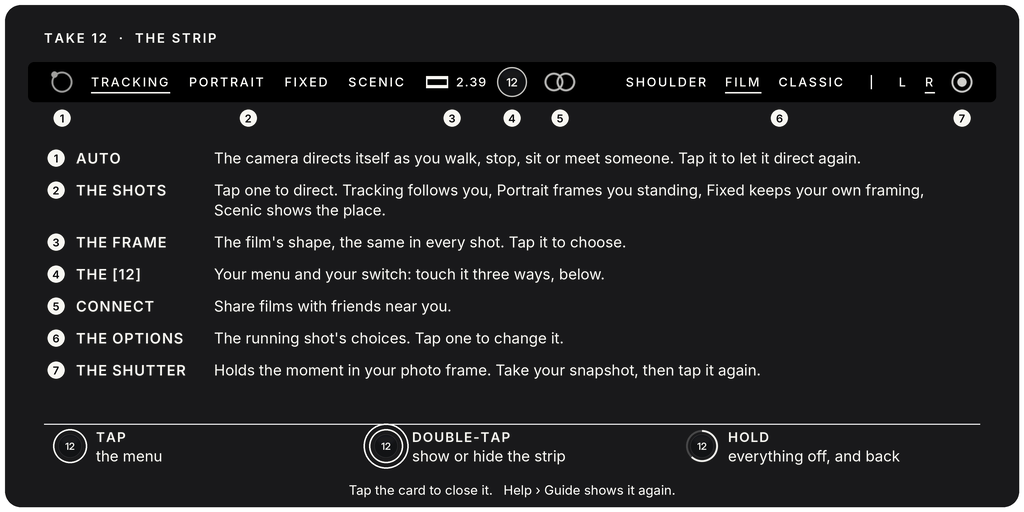
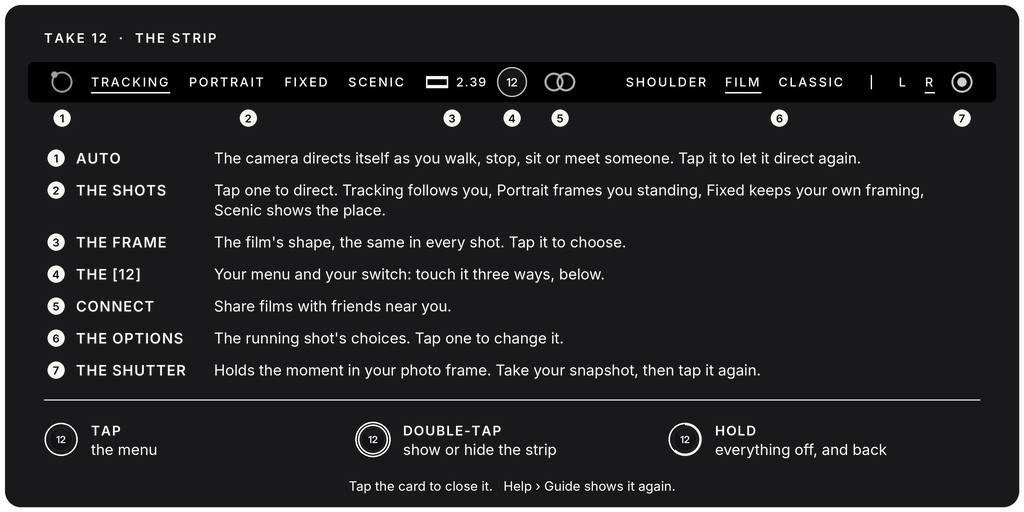
The guide cards: an even bottom row
- The three touches drawn at one size (the same disc, one 1.5 px stroke: one
  ring, two rings, the ring filling), in three equal columns over the list's
  width; the divider no longer touches them, and the list, divider, touches
  and footer are evenly spaced. The product's card and the lab's.

Claude-Session: https://claude.ai/code/session_017fxCDsK7kSKGLKYB8MXKf1

Changed region(s): [[0.0312, 0.8125, 0.9375, 0.9062], [0.3438, 0.9375, 0.6562, 0.9688]]

diff --git a/tools/art/make_guide.py b/tools/art/make_guide.py
@@ -32,7 +32,6 @@ KEYS_LAB = [KEYS[0],                     # the Take 12 Lab (lab/): its Quiet pag
             KEYS[2], KEYS[3], KEYS[4], KEYS[6]]
 GESTURES = [("tap", "TAP", "the menu"), ("double", "DOUBLE-TAP", "show or hide the strip"),
             ("hold", "HOLD", "everything off, and back")]
-GY = 446                                # the touches' row
 FOOT = "Tap the card to close it.   Help › Guide shows it again."
 SHOTS = ["TRACKING", "PORTRAIT", "FIXED", "SCENIC"]
 OPTS = ["SHOULDER", "FILM", "CLASSIC", "/", "L", "R"]
@@ -165,7 +164,7 @@ def finish(im, d, X, keys, paste):
     lines = sum(len(r) for r in rows)
     y = 150
     step, lead = 32, 20                           # a row, a second line
-    if y + len(rows) * step + (lines - len(rows)) * lead > GY - 22:
+    if y + len(rows) * step + (lines - len(rows)) * lead > H - 112:
         raise SystemExit("make_guide: the list does not fit the card (%d lines)" % lines)
     for i, ((_, t, _), r) in enumerate(zip(keys, rows)):
         num(56, y + 8, i + 1)
@@ -173,24 +172,34 @@ def finish(im, d, X, keys, paste):
         for j, ln in enumerate(r):
             d.text((bx * K, (y + 8 + j * lead) * K), ln, font=bf, fill=WHITE + (196,), anchor="lm")
         y += step + (len(r) - 1) * lead
-    # ---- the [12]'s three touches, each drawn: one ripple, two ripples, the ring filling as you hold -------------------
-    d.line([44 * K, (GY - 22) * K, (W - 44) * K, (GY - 22) * K], fill=(255, 255, 255, 30), width=K)
+    # ---- the [12]'s three touches: one grid, one size. The same disc in each, its rings in one 1.5 px stroke: one ring
+    # (a tap), two (a double-tap), the ring filling (a hold). The divider, the row and the footer evenly spaced -------
+    fy = H - 26                                   # the footer
+    lc = y - step + 8                             # the list's last line
+    g = (fy - lc - 8 - 2 * 17.6 - 7) / 3.0        # one gap, seen: list to divider, divider to the touches, them to the footer
+    dy = lc + 8 + g                               # the divider
+    gy = dy + g + 17.6                            # the touches' row
+    if gy + 18 > fy - 14: raise SystemExit("make_guide: the touches do not fit under the list")
+    d.line([44 * K, dy * K, (W - 44) * K, dy * K], fill=(255, 255, 255, 30), width=K)
     gt = font("Inter-SemiBold.otf", int(13.5 * K))
+    sw = 1.5 * K
     for i, (kind, t, b) in enumerate(GESTURES):
-        x0 = 56 + i * 316
-        c = x0 + 14
-        paste(disc(WHITE), c, size=(24, 24), y=GY)
+        x0 = 44 + i * (W - 88) / 3.0              # three equal columns over the list's width
+        c = x0 + 17
+        paste(disc(WHITE), c, size=(24, 24), y=gy)
+        box = lambda r_: [(c - r_) * K, (gy - r_) * K, (c + r_) * K, (gy + r_) * K]
         if kind == "tap":
-            d.ellipse([(c - 17) * K, (GY - 17) * K, (c + 17) * K, (GY + 17) * K], outline=WHITE + (150,), width=int(1.5 * K))
+            d.ellipse(box(16.5), outline=WHITE + (170,), width=int(sw))
         elif kind == "double":
-            for r_, a_ in ((17, 170), (22.5, 90)):
-                d.ellipse([(c - r_) * K, (GY - r_) * K, (c + r_) * K, (GY + r_) * K], outline=WHITE + (a_,), width=int(1.5 * K))
+            d.ellipse(box(14.8), outline=WHITE + (190,), width=int(sw))
+            d.ellipse(box(17.6), outline=WHITE + (110,), width=int(sw))
         else:
-            paste(ring(0.62), c, size=(34, 34), y=GY)
-        spaced(d, (x0 + 40) * K, (GY - 9) * K, t, gt, WHITE + (255,), 0.08)
-        d.text(((x0 + 40) * K, (GY + 10) * K), b, font=bf, fill=WHITE + (196,), anchor="lm")
+            d.ellipse(box(16.5), outline=WHITE + (50,), width=int(sw))
+            d.arc(box(16.5), -90, -90 + 360 * 0.62, fill=WHITE + (245,), width=int(2.6 * K))   # the fill reads at a glance
+        spaced(d, (c + 30) * K, (gy - 9) * K, t, gt, WHITE + (255,), 0.08)
+        d.text(((c + 30) * K, (gy + 10) * K), b, font=bf, fill=WHITE + (196,), anchor="lm")
     ff = font("Inter-Regular.otf", 13 * K)
-    d.text((W / 2 * K, (H - 22) * K), FOOT, font=ff, fill=WHITE + (138,), anchor="mm")
+    d.text((W / 2 * K, fy * K), FOOT, font=ff, fill=WHITE + (138,), anchor="mm")
     return im.resize((W, H), Image.LANCZOS)
 
 

diff --git a/CHANGELOG.md b/CHANGELOG.md
@@ -1,5 +1,9 @@
 # Changelog
 
+## The guide cards' bottom row (texture only, the product's and the lab's)
+- The three touches (tap, double-tap, hold) drawn at one size on one grid, the divider no longer against them, the
+  list, the divider, the touches and the footer evenly spaced. Upload `take12_guide` again; no script changes.
+
 ## Take 12 Lab, lab 1 (the Quiet and Direct pages; the product is unchanged)
 - A separate HUD in `lab/` for trying ideas without touching the product: its own strip and screen, the product's
   other ten scripts copied unchanged (`tools/build_lab.py`), its own builder (two more parts), marks (the fold key and
